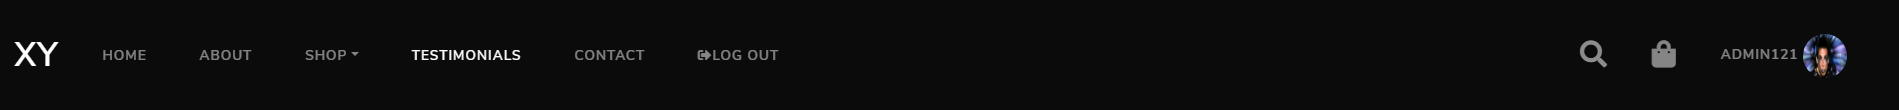
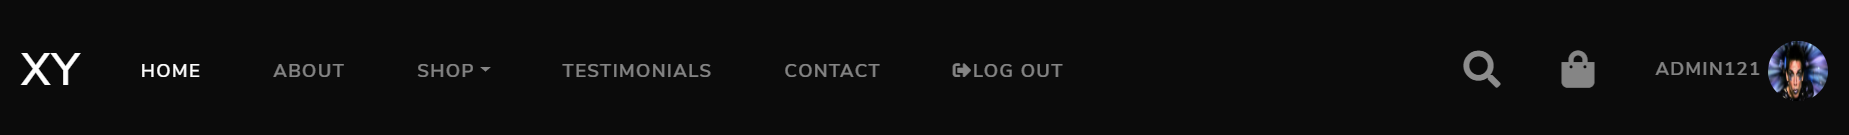
editing nav pic and adding logged out pic to read me also

Changed region(s): [[0.7707, 0.3, 1.0, 0.7364], [0.2158, 0.4364, 0.5857, 0.5727], [0.0, 0.3818, 0.185, 0.6273]]

diff --git a/README.md b/README.md
@@ -98,6 +98,8 @@ The hero image on the index page take up the entire and lets the user know the p
 
 ![Nav](https://github.com/brianscan14/XYfitness/blob/master/media/images/readme/nav.PNG?raw=true)
 
+![Nav Logged Out](https://github.com/brianscan14/XYfitness/blob/master/media/images/readme/nav-logged-out.PNG?raw=true)
+
 The navbar can be divided into two type, small screen sizes and screen sizes above small. The pages consist of; home, about, contact, shop, testimonials, cart and depending on whether the user is signed in or not, login, signup, log out or view profile. There is a search icon on both screens for easier interaction with the user, when hovered all pages will change colour to signify it is a clickable option. The nav header is the short name of the page and this is in bolder and larger font to notify the users of this fact, when clicked it will bring them back to the home page. It is positioned at the top of the page for better recipe viewing experience. The user can easily be returned to the navbar's location by clicking the up arrow which brings them to the top of the page.
 
 *Small screen*:
